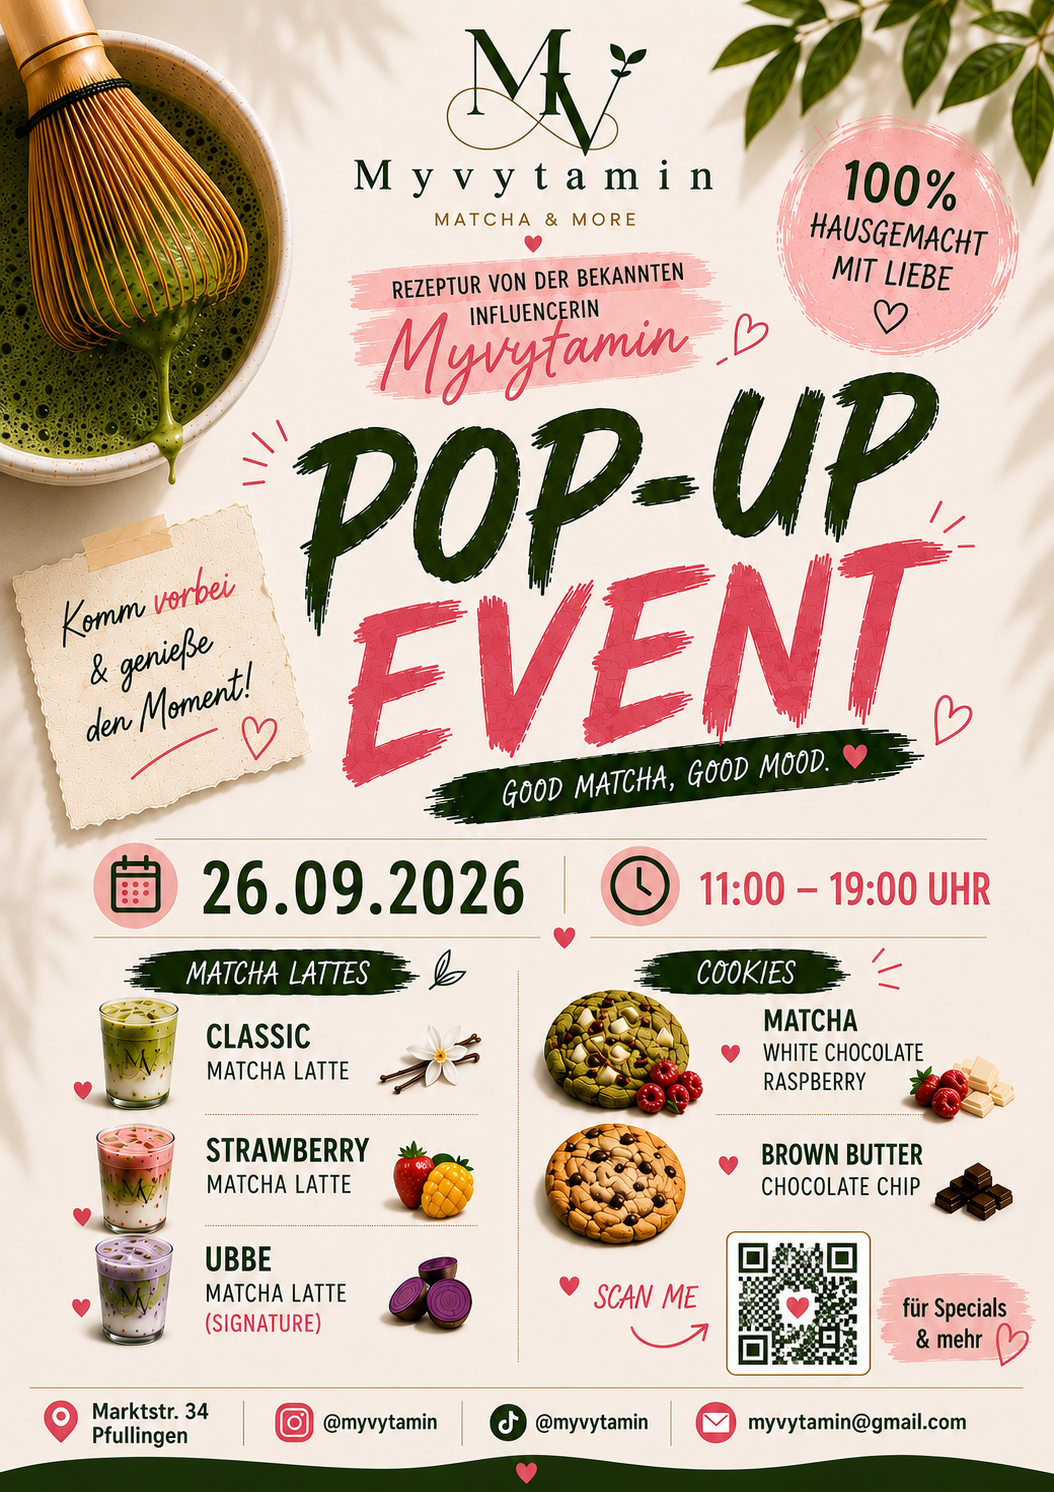
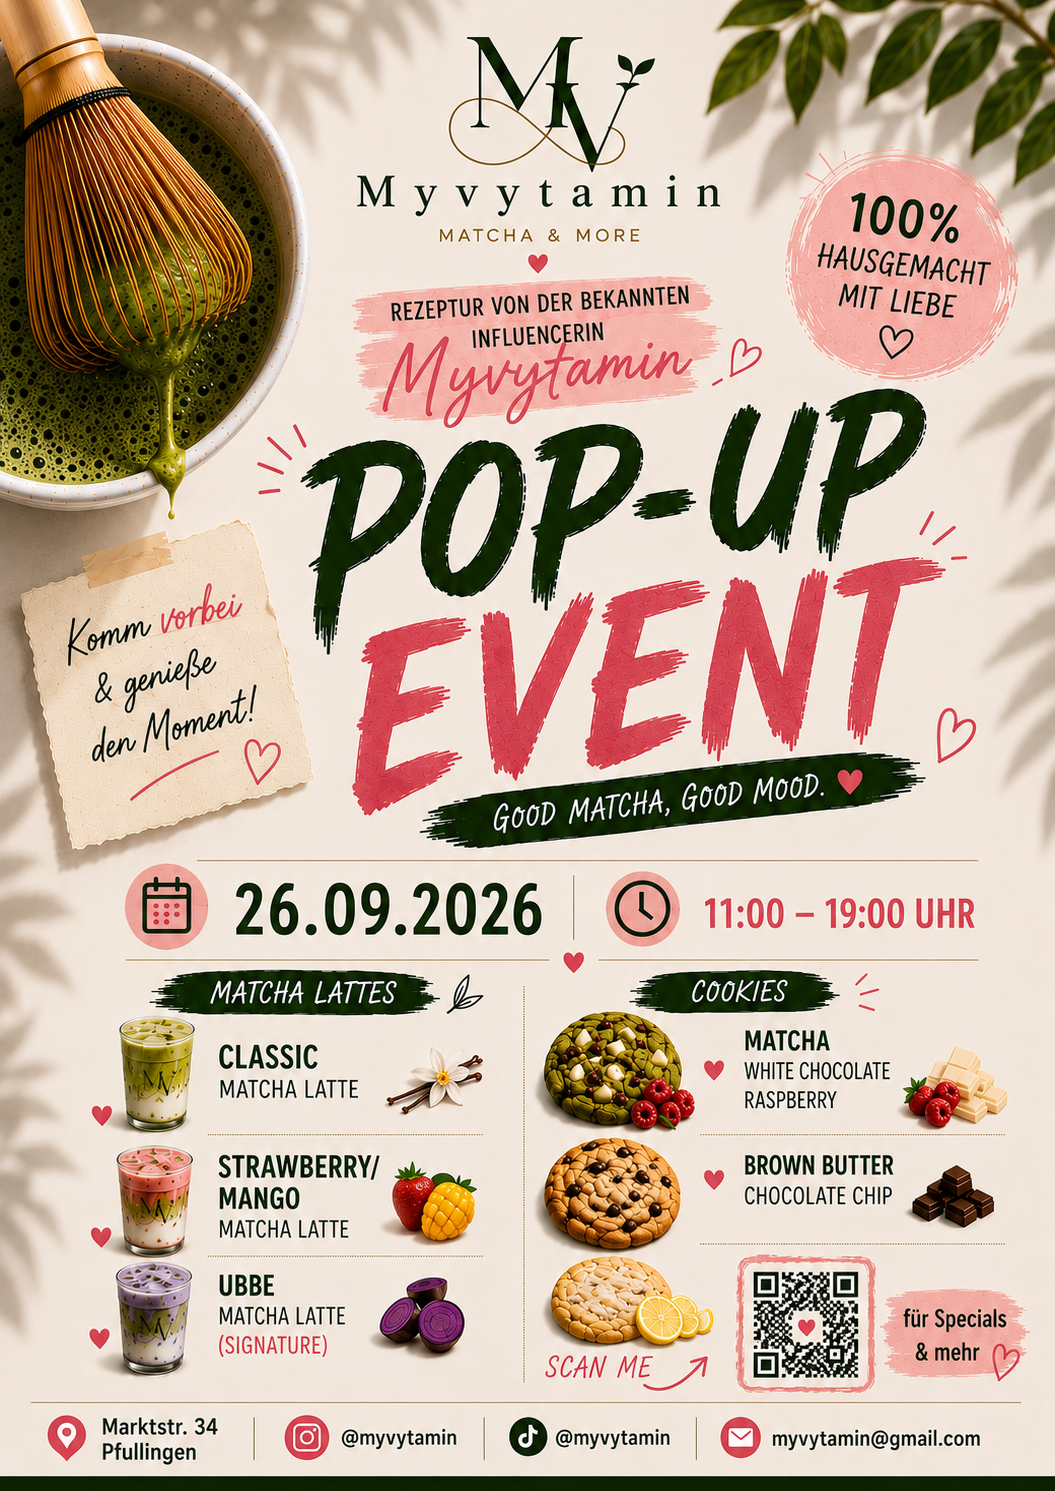
Replace popup flyer with final version

diff --git a/components/intro/IntroEventBar.tsx b/components/intro/IntroEventBar.tsx
@@ -40,7 +40,7 @@ export function IntroEventBar({ debug = false }: { debug?: boolean }) {
           <p className="expect-label">Was dich erwartet:</p>
           <div className="offer-item">
             <strong>Matcha</strong>
-            <span>Classic · Strawberry · Ube</span>
+            <span>Classic · Strawberry/Mango · Ube</span>
           </div>
           <div className="offer-item">
             <strong>Cookies</strong>

diff --git a/data/products.ts b/data/products.ts
@@ -6,9 +6,9 @@ export const matchaProducts = [
     accent: "matcha",
   },
   {
-    name: "Strawberry Matcha Latte",
-    copy: "Fruchtig, süß und frisch - Matcha mit Strawberry-Vibe.",
-    taste: "strawberry / frisch / sweet",
+    name: "Strawberry/Mango Matcha Latte",
+    copy: "Fruchtig, süß und frisch - Matcha mit Strawberry- und Mango-Vibe.",
+    taste: "strawberry / mango / fresh",
     accent: "berry",
   },
   {
